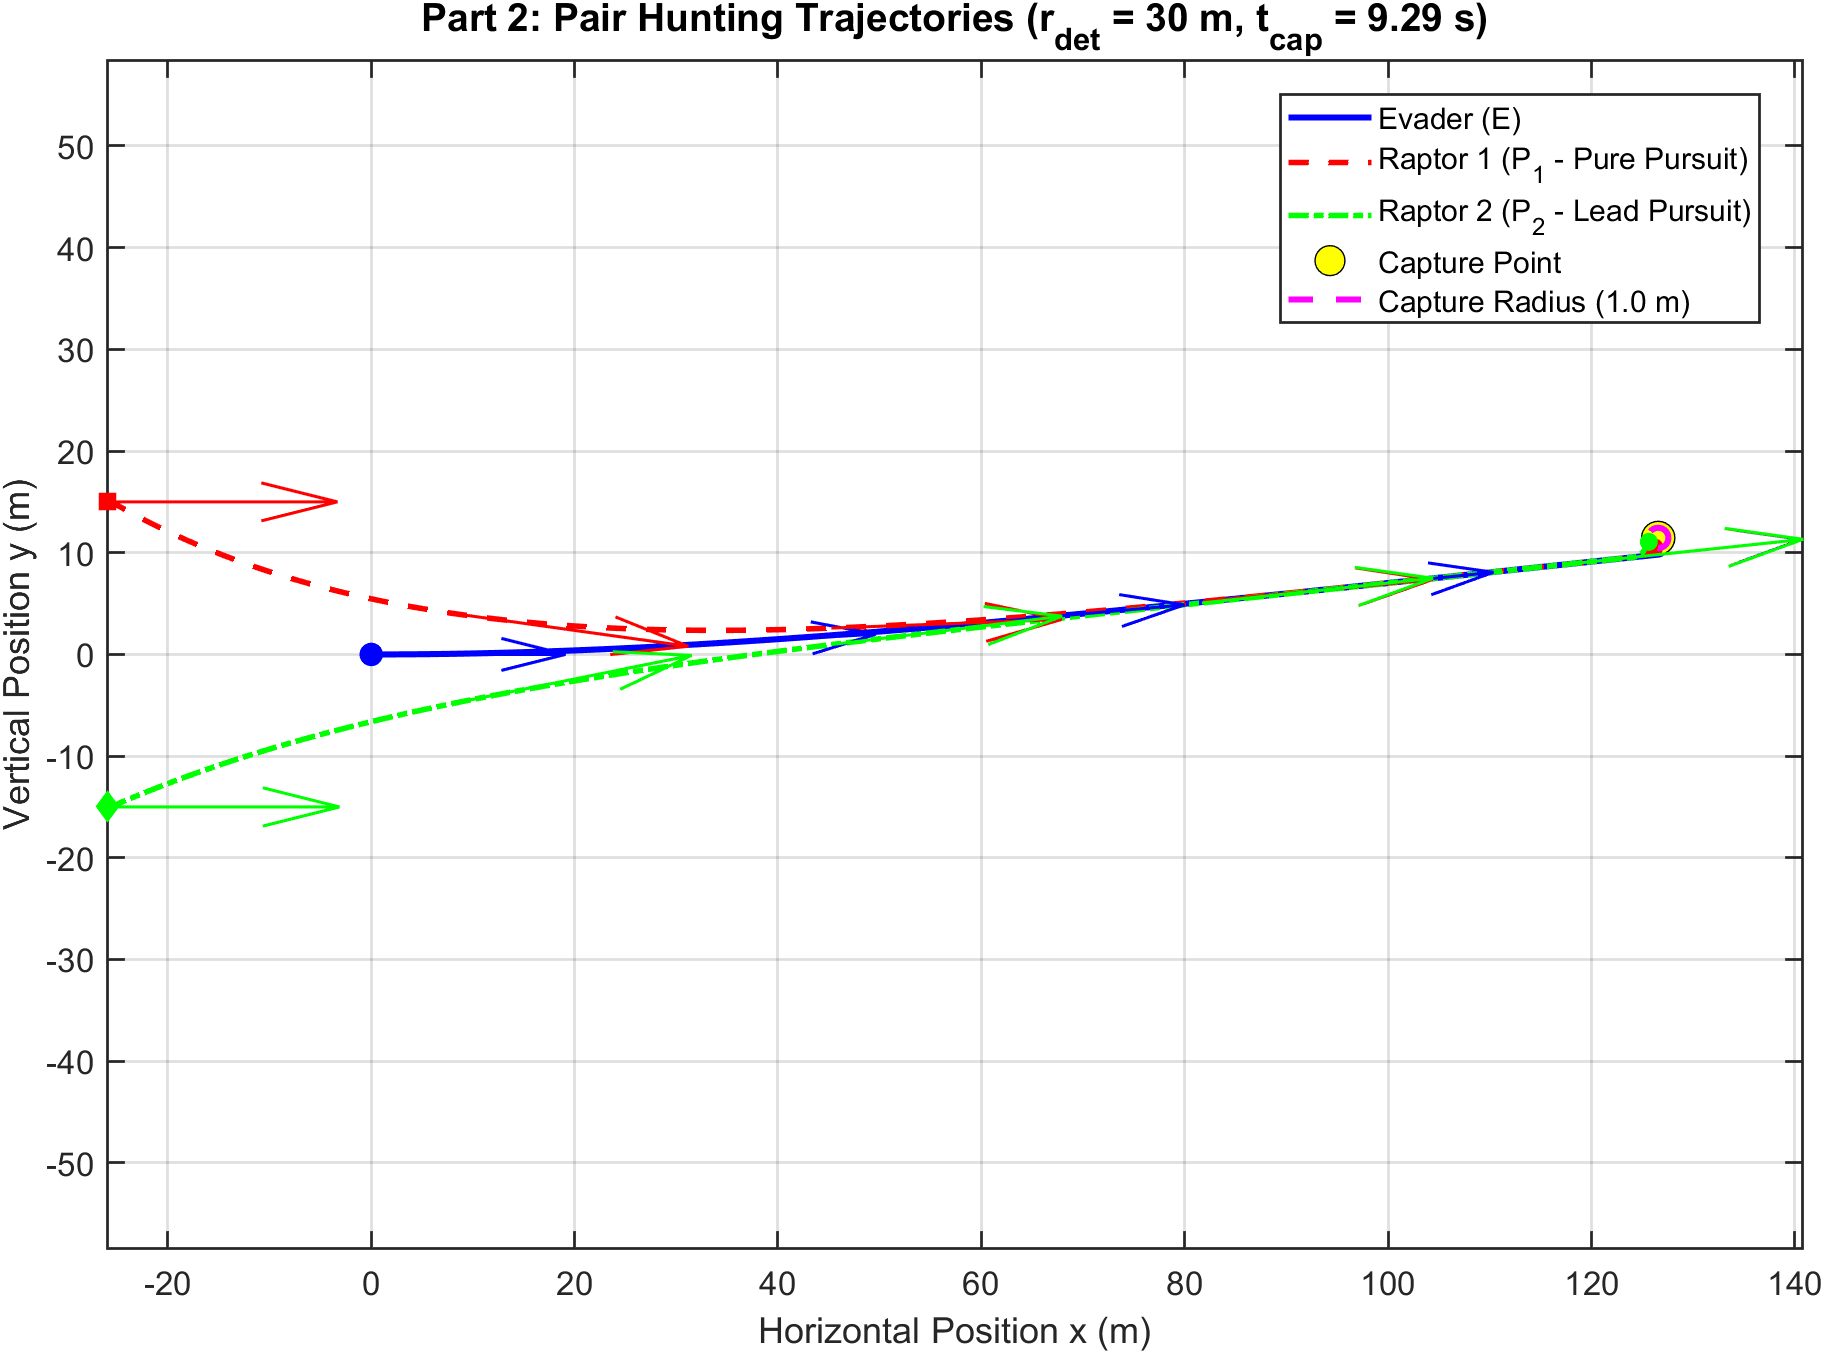
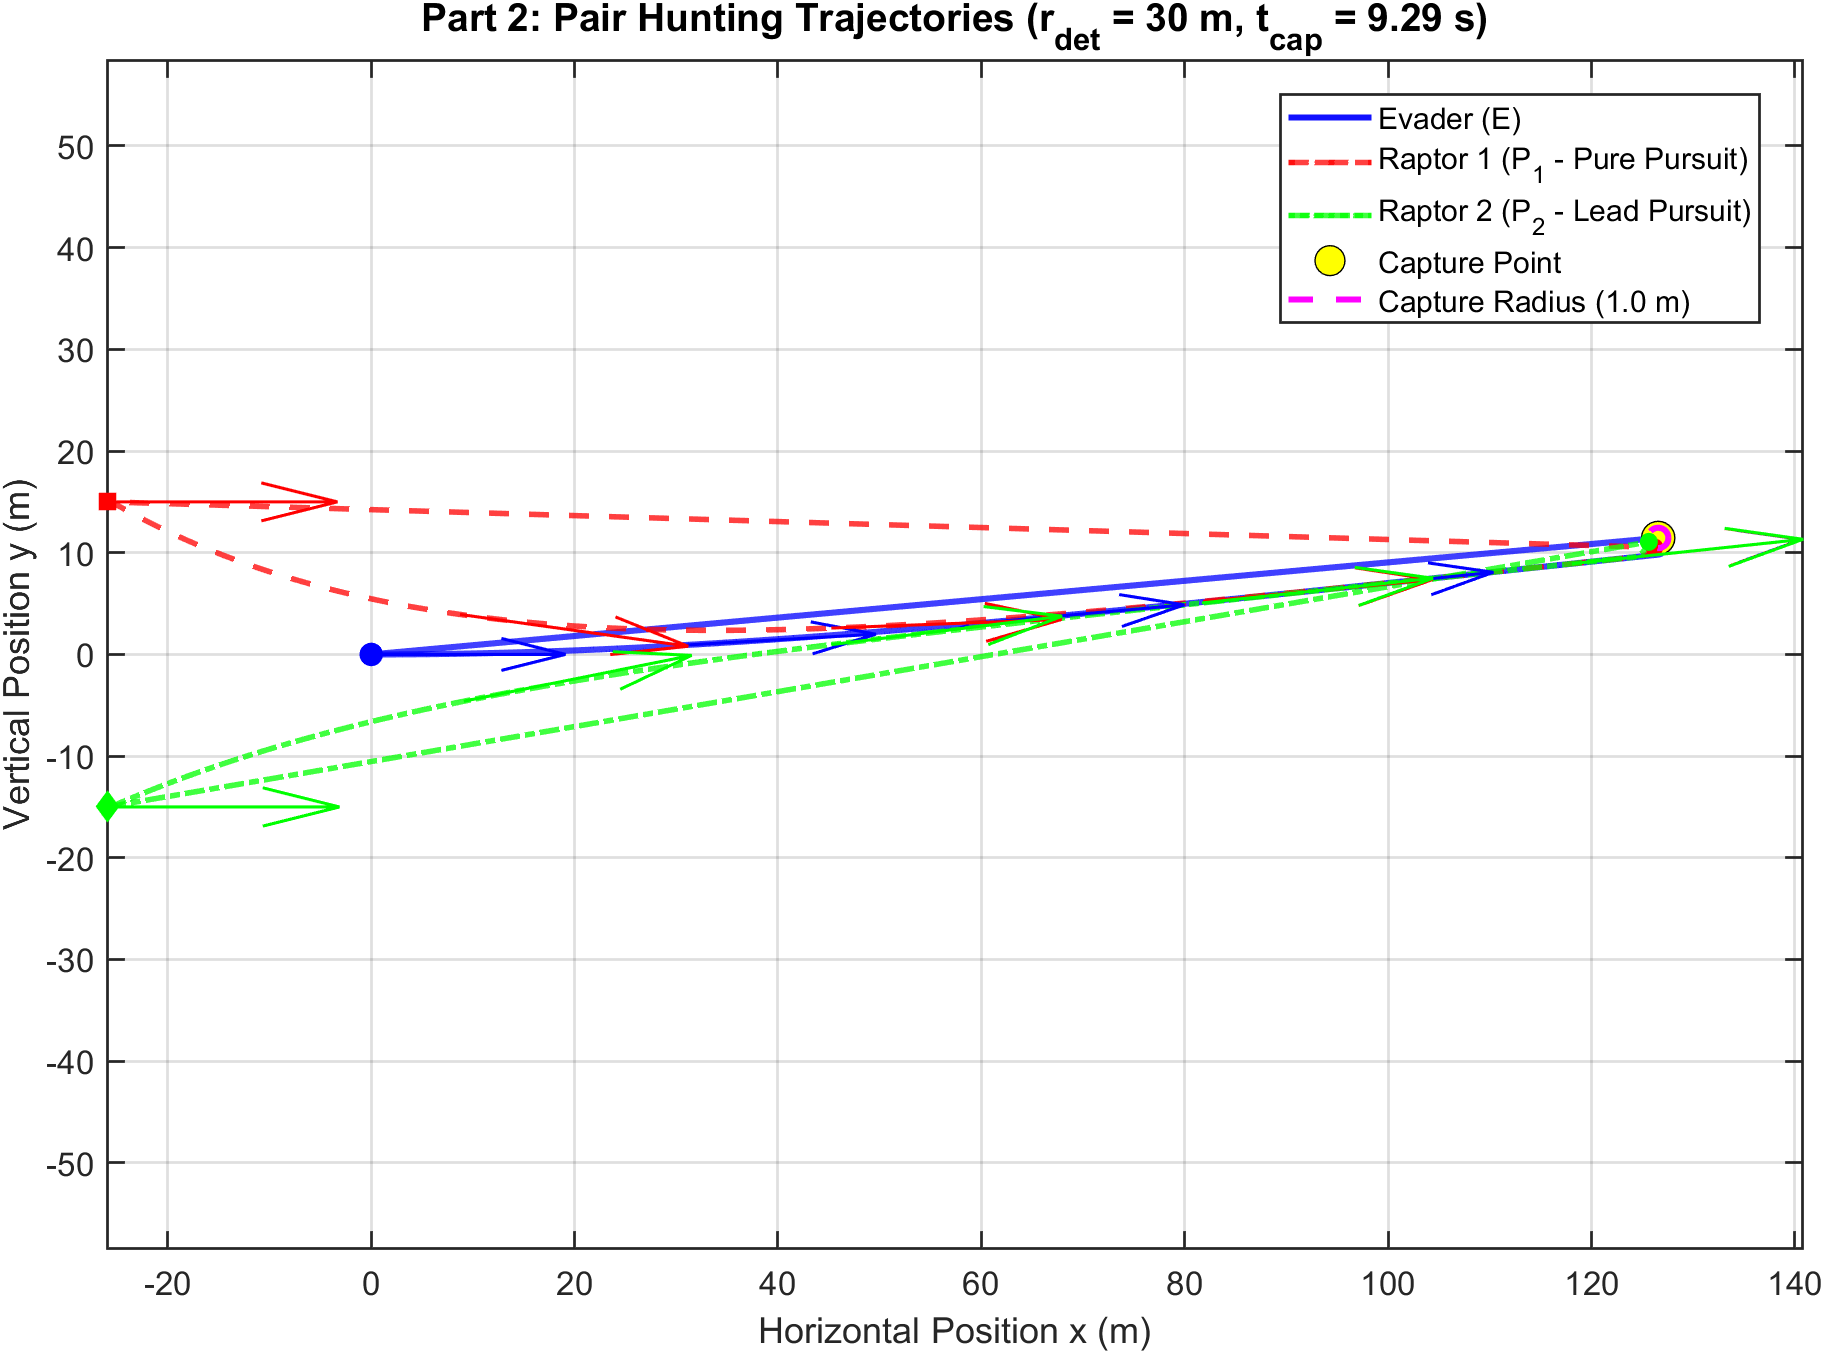
some edits

Changed region(s): [[0.215, 0.3725, 0.8908, 0.5277], [0.0922, 0.5277, 0.3379, 0.5898]]

diff --git a/strategy_2_realistic_radius.m b/strategy_2_realistic_radius.m
@@ -143,16 +143,11 @@ figure('Color', 'w', 'Position', [80, 80, 1050, 700]);
 hold on; grid on; axis equal;
 
 % Plot all 3 trajectories on the same axis
-trajectory_alpha = 0.75;
-patch(x_E(1:end_idx),  y_E(1:end_idx),  'b', 'FaceColor', 'none', ...
-    'EdgeColor', 'b', 'EdgeAlpha', trajectory_alpha, 'LineStyle', '-', ...
-    'LineWidth', 2.2, 'DisplayName', 'Evader (E)');
-patch(x_P1(1:end_idx), y_P1(1:end_idx), 'r', 'FaceColor', 'none', ...
-    'EdgeColor', 'r', 'EdgeAlpha', trajectory_alpha, 'LineStyle', '--', ...
-    'LineWidth', 2.0, 'DisplayName', 'Raptor 1 (P_1 - Pure Pursuit)');
-patch(x_P2(1:end_idx), y_P2(1:end_idx), 'g', 'FaceColor', 'none', ...
-    'EdgeColor', 'g', 'EdgeAlpha', trajectory_alpha, 'LineStyle', '-.', ...
-    'LineWidth', 2.0, 'DisplayName', 'Raptor 2 (P_2 - Lead Pursuit)');
+plot(x_E(1:end_idx),  y_E(1:end_idx),  'b-',  'LineWidth', 2.2, 'DisplayName', 'Evader (E)');
+plot(x_P1(1:end_idx), y_P1(1:end_idx), 'r--', 'LineWidth', 2.0, 'DisplayName', 'Raptor 1 (P_1 - Pure Pursuit)');
+plot(x_P2(1:end_idx), y_P2(1:end_idx), 'g-.', 'LineWidth', 2.0, 'DisplayName', 'Raptor 2 (P_2 - Lead Pursuit)');
+
+
 
 % Plot Start Positions (t = 0)
 plot(x_E(1),  y_E(1),  'bo', 'MarkerSize', 8, 'MarkerFaceColor', 'b', 'HandleVisibility', 'off');

diff --git a/strategy_2_cooperative.m b/strategy_2_cooperative.m
@@ -139,16 +139,9 @@ figure('Color', 'w', 'Position', [80, 80, 1050, 700]);
 hold on; grid on; axis equal;
 
 % Plot all 3 trajectories on the same axis
-trajectory_alpha = 0.75;
-patch(x_E(1:end_idx),  y_E(1:end_idx),  'b', 'FaceColor', 'none', ...
-    'EdgeColor', 'b', 'EdgeAlpha', trajectory_alpha, 'LineStyle', '-', ...
-    'LineWidth', 2.2, 'DisplayName', 'Evader (E)');
-patch(x_P1(1:end_idx), y_P1(1:end_idx), 'r', 'FaceColor', 'none', ...
-    'EdgeColor', 'r', 'EdgeAlpha', trajectory_alpha, 'LineStyle', '--', ...
-    'LineWidth', 2.0, 'DisplayName', 'Raptor 1 (P_1 - Pure Pursuit)');
-patch(x_P2(1:end_idx), y_P2(1:end_idx), 'g', 'FaceColor', 'none', ...
-    'EdgeColor', 'g', 'EdgeAlpha', trajectory_alpha, 'LineStyle', '-.', ...
-    'LineWidth', 2.0, 'DisplayName', 'Raptor 2 (P_2 - Lead Pursuit)');
+plot(x_E(1:end_idx),  y_E(1:end_idx),  'b-',  'LineWidth', 2.2, 'DisplayName', 'Evader (E)');
+plot(x_P1(1:end_idx), y_P1(1:end_idx), 'r--', 'LineWidth', 2.0, 'DisplayName', 'Raptor 1 (P_1 - Pure Pursuit)');
+plot(x_P2(1:end_idx), y_P2(1:end_idx), 'g-.', 'LineWidth', 2.0, 'DisplayName', 'Raptor 2 (P_2 - Lead Pursuit)');
 
 % Plot Start Positions (t = 0)
 plot(x_E(1),  y_E(1),  'bo', 'MarkerSize', 8, 'MarkerFaceColor', 'b', 'HandleVisibility', 'off');

diff --git a/strategy_3_pure_pursuit.m b/strategy_3_pure_pursuit.m
@@ -29,18 +29,11 @@ for scenario = 1:numel(start_distances)
 
     figure('Color', 'w', 'Position', [80, 80, 1050, 700]);
     hold on; grid on; axis equal;
-    trajectory_alpha = 0.75;
-    patch(x_E(1:end_idx), y_E(1:end_idx), 'b', 'FaceColor', 'none', ...
-        'EdgeColor', 'b', 'EdgeAlpha', trajectory_alpha, 'LineStyle', '-', ...
-        'LineWidth', 2.2, ...
+    plot(x_E(1:end_idx), y_E(1:end_idx), 'b-', 'LineWidth', 2.2, ...
         'DisplayName', 'Evader (E)');
-    patch(x_P1(1:end_idx), y_P1(1:end_idx), 'r', 'FaceColor', 'none', ...
-        'EdgeColor', 'r', 'EdgeAlpha', trajectory_alpha, 'LineStyle', '--', ...
-        'LineWidth', 2.0, ...
+    plot(x_P1(1:end_idx), y_P1(1:end_idx), 'r--', 'LineWidth', 2.0, ...
         'DisplayName', 'Pursuer 1 (P_1 - Pure Pursuit)');
-    patch(x_P2(1:end_idx), y_P2(1:end_idx), 'g', 'FaceColor', 'none', ...
-        'EdgeColor', 'g', 'EdgeAlpha', trajectory_alpha, 'LineStyle', '-.', ...
-        'LineWidth', 2.0, ...
+    plot(x_P2(1:end_idx), y_P2(1:end_idx), 'g-.', 'LineWidth', 2.0, ...
         'DisplayName', 'Pursuer 2 (P_2 - Pure Pursuit)');
     plot(x_E(1), y_E(1), 'bo', 'MarkerSize', 8, 'MarkerFaceColor', 'b', ...
         'HandleVisibility', 'off');

diff --git a/strategy_3_realistic_radius.m b/strategy_3_realistic_radius.m
@@ -29,18 +29,11 @@ for scenario = 1:numel(start_distances)
 
     figure('Color', 'w', 'Position', [80, 80, 1050, 700]);
     hold on; grid on; axis equal;
-    trajectory_alpha = 0.75;
-    patch(x_E(1:end_idx), y_E(1:end_idx), 'b', 'FaceColor', 'none', ...
-        'EdgeColor', 'b', 'EdgeAlpha', trajectory_alpha, 'LineStyle', '-', ...
-        'LineWidth', 2.2, ...
+    plot(x_E(1:end_idx), y_E(1:end_idx), 'b-', 'LineWidth', 2.2, ...
         'DisplayName', 'Evader (E)');
-    patch(x_P1(1:end_idx), y_P1(1:end_idx), 'r', 'FaceColor', 'none', ...
-        'EdgeColor', 'r', 'EdgeAlpha', trajectory_alpha, 'LineStyle', '--', ...
-        'LineWidth', 2.0, ...
+    plot(x_P1(1:end_idx), y_P1(1:end_idx), 'r--', 'LineWidth', 2.0, ...
         'DisplayName', 'Pursuer 1 (P_1 - Pure Pursuit)');
-    patch(x_P2(1:end_idx), y_P2(1:end_idx), 'g', 'FaceColor', 'none', ...
-        'EdgeColor', 'g', 'EdgeAlpha', trajectory_alpha, 'LineStyle', '-.', ...
-        'LineWidth', 2.0, ...
+    plot(x_P2(1:end_idx), y_P2(1:end_idx), 'g-.', 'LineWidth', 2.0, ...
         'DisplayName', 'Pursuer 2 (P_2 - Pure Pursuit)');
     plot(x_E(1), y_E(1), 'bo', 'MarkerSize', 8, 'MarkerFaceColor', 'b', ...
         'HandleVisibility', 'off');

diff --git a/strategy_1_pure_pursuit.m b/strategy_1_pure_pursuit.m
@@ -111,13 +111,8 @@ figure('Color', 'w', 'Position', [80, 80, 1050, 700]);
 hold on; grid on; axis equal;
 
 % Plot trajectories
-trajectory_alpha = 0.75;
-patch(x_E(1:end_idx), y_E(1:end_idx), 'b', 'FaceColor', 'none', ...
-    'EdgeColor', 'b', 'EdgeAlpha', trajectory_alpha, 'LineStyle', '-', ...
-    'LineWidth', 2.2, 'DisplayName', 'Evader Trajectory (E)');
-patch(x_P(1:end_idx), y_P(1:end_idx), 'r', 'FaceColor', 'none', ...
-    'EdgeColor', 'r', 'EdgeAlpha', trajectory_alpha, 'LineStyle', '--', ...
-    'LineWidth', 2.0, 'DisplayName', 'Pursuer Trajectory (P_1)');
+plot(x_E(1:end_idx), y_E(1:end_idx), 'b-', 'LineWidth', 2.2, 'DisplayName', 'Evader Trajectory (E)');
+plot(x_P(1:end_idx), y_P(1:end_idx), 'r--', 'LineWidth', 2.0, 'DisplayName', 'Pursuer Trajectory (P_1)');
 
 % Plot Start Positions (t = 0)
 plot(x_E(1), y_E(1), 'bo', 'MarkerSize', 8, 'MarkerFaceColor', 'b', 'HandleVisibility', 'off');

diff --git a/strategy_1_realistic_radius.m b/strategy_1_realistic_radius.m
@@ -111,13 +111,8 @@ figure('Color', 'w', 'Position', [80, 80, 1050, 700]);
 hold on; grid on; axis equal;
 
 % Plot trajectories
-trajectory_alpha = 0.75;
-patch(x_E(1:end_idx), y_E(1:end_idx), 'b', 'FaceColor', 'none', ...
-    'EdgeColor', 'b', 'EdgeAlpha', trajectory_alpha, 'LineStyle', '-', ...
-    'LineWidth', 2.2, 'DisplayName', 'Evader Trajectory (E)');
-patch(x_P(1:end_idx), y_P(1:end_idx), 'r', 'FaceColor', 'none', ...
-    'EdgeColor', 'r', 'EdgeAlpha', trajectory_alpha, 'LineStyle', '--', ...
-    'LineWidth', 2.0, 'DisplayName', 'Pursuer Trajectory (P_1)');
+plot(x_E(1:end_idx), y_E(1:end_idx), 'b-', 'LineWidth', 2.2, 'DisplayName', 'Evader Trajectory (E)');
+plot(x_P(1:end_idx), y_P(1:end_idx), 'r--', 'LineWidth', 2.0, 'DisplayName', 'Pursuer Trajectory (P_1)');
 
 % Plot Start Positions (t = 0)
 plot(x_E(1), y_E(1), 'bo', 'MarkerSize', 8, 'MarkerFaceColor', 'b', 'HandleVisibility', 'off');
